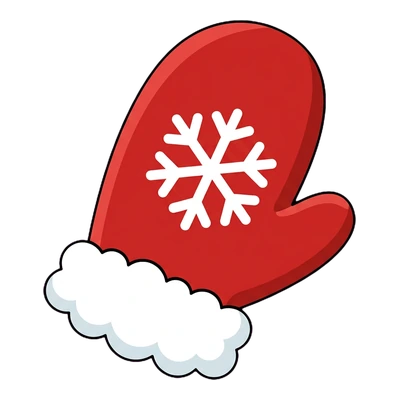
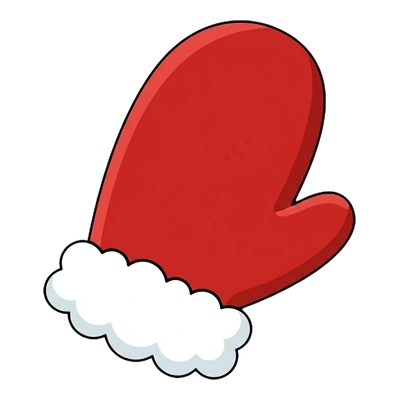
Mitten symbol without the snowflake; upload script points at the renamed game slug
Claude-Session: https://claude.ai/code/session_01GBJJefLwsmZ7HRw7fkyhix

Changed region(s): [[0.36, 0.27, 0.69, 0.6]]

diff --git a/tools/up_tab.js b/tools/up_tab.js
@@ -24,7 +24,7 @@
 (() => {
   const CFG = {
     team: "smukiez",
-    game: "santas-wonderland",
+    game: "mrandmrs-claus",
     repo: "gen1recrit-blip/santaslot",              // public repo: the tab reads it without a token
     commit: "9233162a47747586a1b166cfc5b505768ce0fb8a",
     parts: {                               // engine.io bundle -> where it lives in the repo
